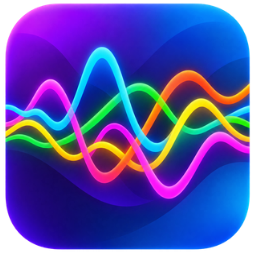
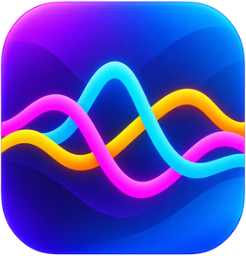
docs: refresh WaveSink branding

diff --git a/README.md b/README.md
@@ -1,5 +1,5 @@
 <p align="center">
-  <img src="assets/WaveSink.png" alt="WaveSink" width="220">
+  <img src="assets/WaveSinkLogo.png" alt="WaveSink" width="220">
 </p>
 
 # WaveSink
@@ -45,8 +45,9 @@ routing, levels, and visual identity.
 - **Hardware inputs** - add physical sources to the matrix, then route each
   independently to any mix. Audio FX settings are saved per input.
 - **Profiles** - save and switch full layouts from the tray
-- **Themes** - Original, Tokyo Night, or Gruvbox Dark, to match
-  the rest of your desktop
+- **Themes** - Original, Tokyo Night, Gruvbox Dark, or the active Omarchy
+  palette. New Omarchy installs default to its live desktop palette; existing
+  selections and the built-in themes remain available everywhere.
 
 ![Equalizer](assets/EQ_ScreenShot.png)
 ![Apps](assets/App_selectScreenshot.png)
